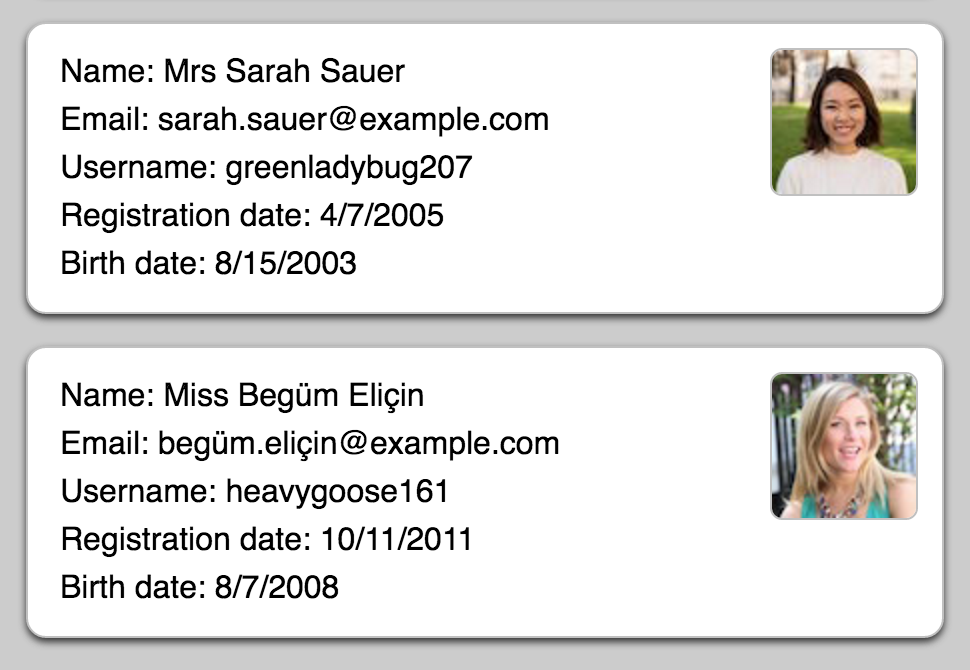
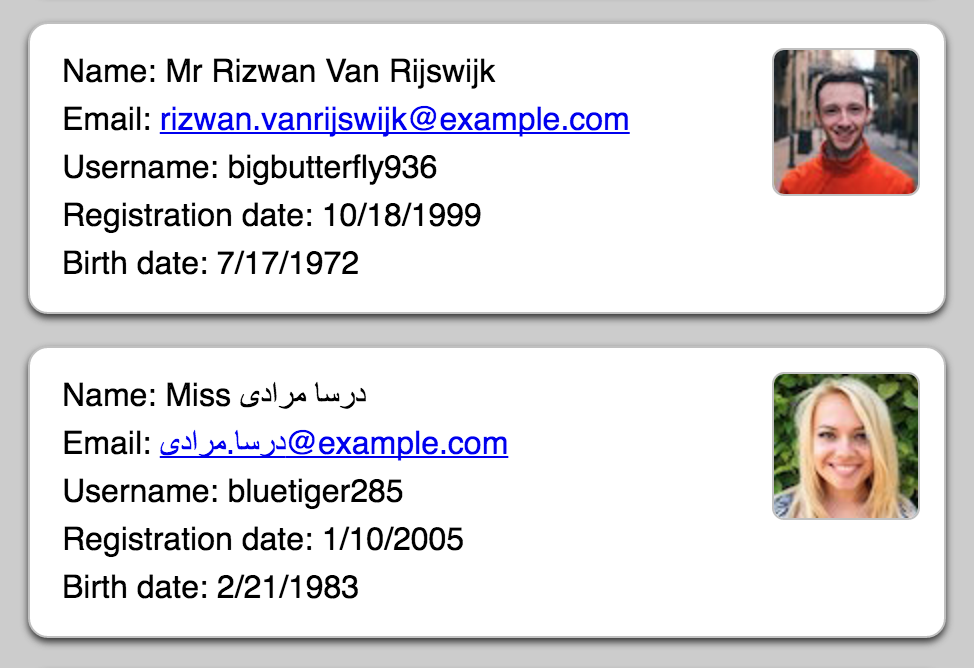
New formatted cards image

diff --git a/3. JavaScript/2/exercise-burrito-order-form.md b/3. JavaScript/2/exercise-burrito-order-form.md
@@ -6,7 +6,7 @@ Practice working as a team using modular JavaScript.
 
 ## Requirements
 
-![El Burrito Grande Order Form](https://raw.githubusercontent.com/segdeha/pdxcodeguild/master/3.%20JavaScript/solutions/modular_javascript/burrito-order-form.png?token=AAAQ0s9NBVSnLzAlxj3efrHRaA2D3nejks5XcXj-wA%3D%3D)
+![El Burrito Grande Order Form](https://raw.githubusercontent.com/segdeha/pdxcodeguild/master/3.%20JavaScript/assets/burrito-order-form.png?token=AAAQ0jfGTOPFkL1_lRJIdld1GFoXEQksks5XcbUlwA%3D%3D)
 
 Our burrito order form needs the following features:
 

diff --git a/3. JavaScript/2/exercise-fun-with-networks-jquery-edition.md b/3. JavaScript/2/exercise-fun-with-networks-jquery-edition.md
@@ -30,6 +30,6 @@ _Hint: It might help you understand the structure of the returned JSON to run it
 
 ## Advanced
 
-- Format each entry as a card with the user’s photo floated to the right, like the following:
+- Format each entry as a card with the user’s photo floated to the right and the email linked, like the following:
 
-![]()
+![Formatted cards](https://raw.githubusercontent.com/segdeha/pdxcodeguild/master/3.%20JavaScript/assets/formatted-cards.png?token=AAAQ0tmgdigKwRV2ncAqZjjuppeay6loks5XcbVawA%3D%3D)
